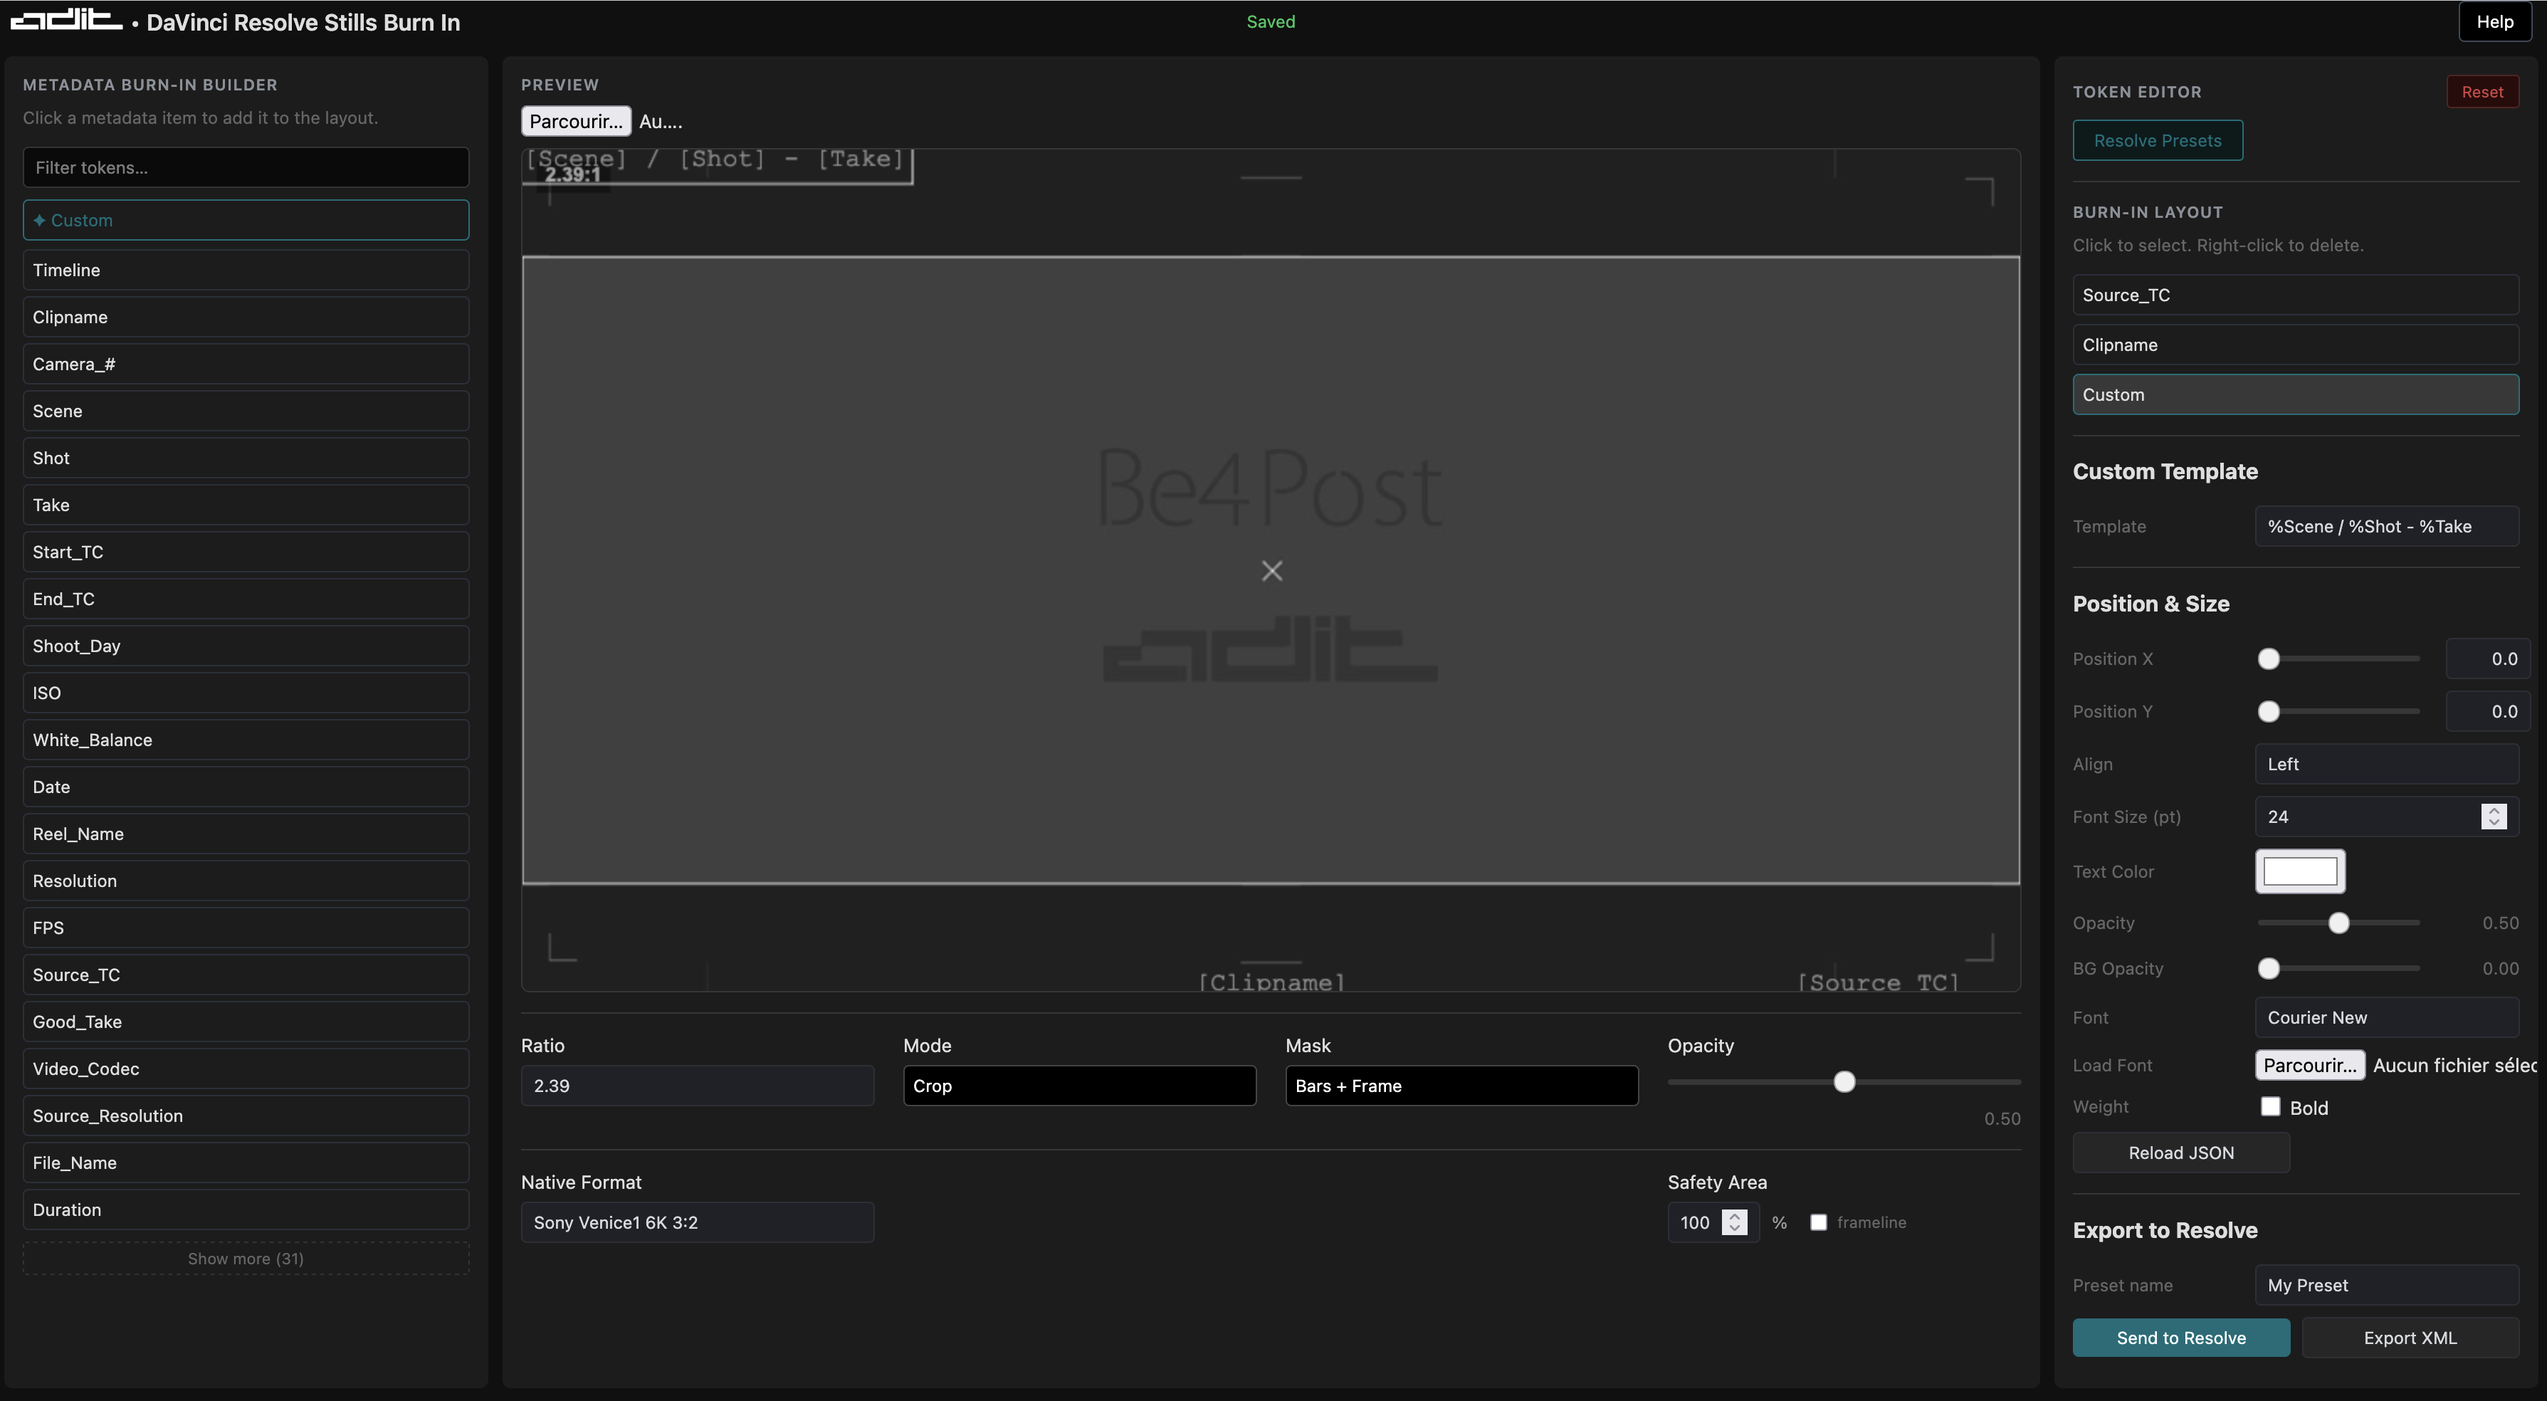
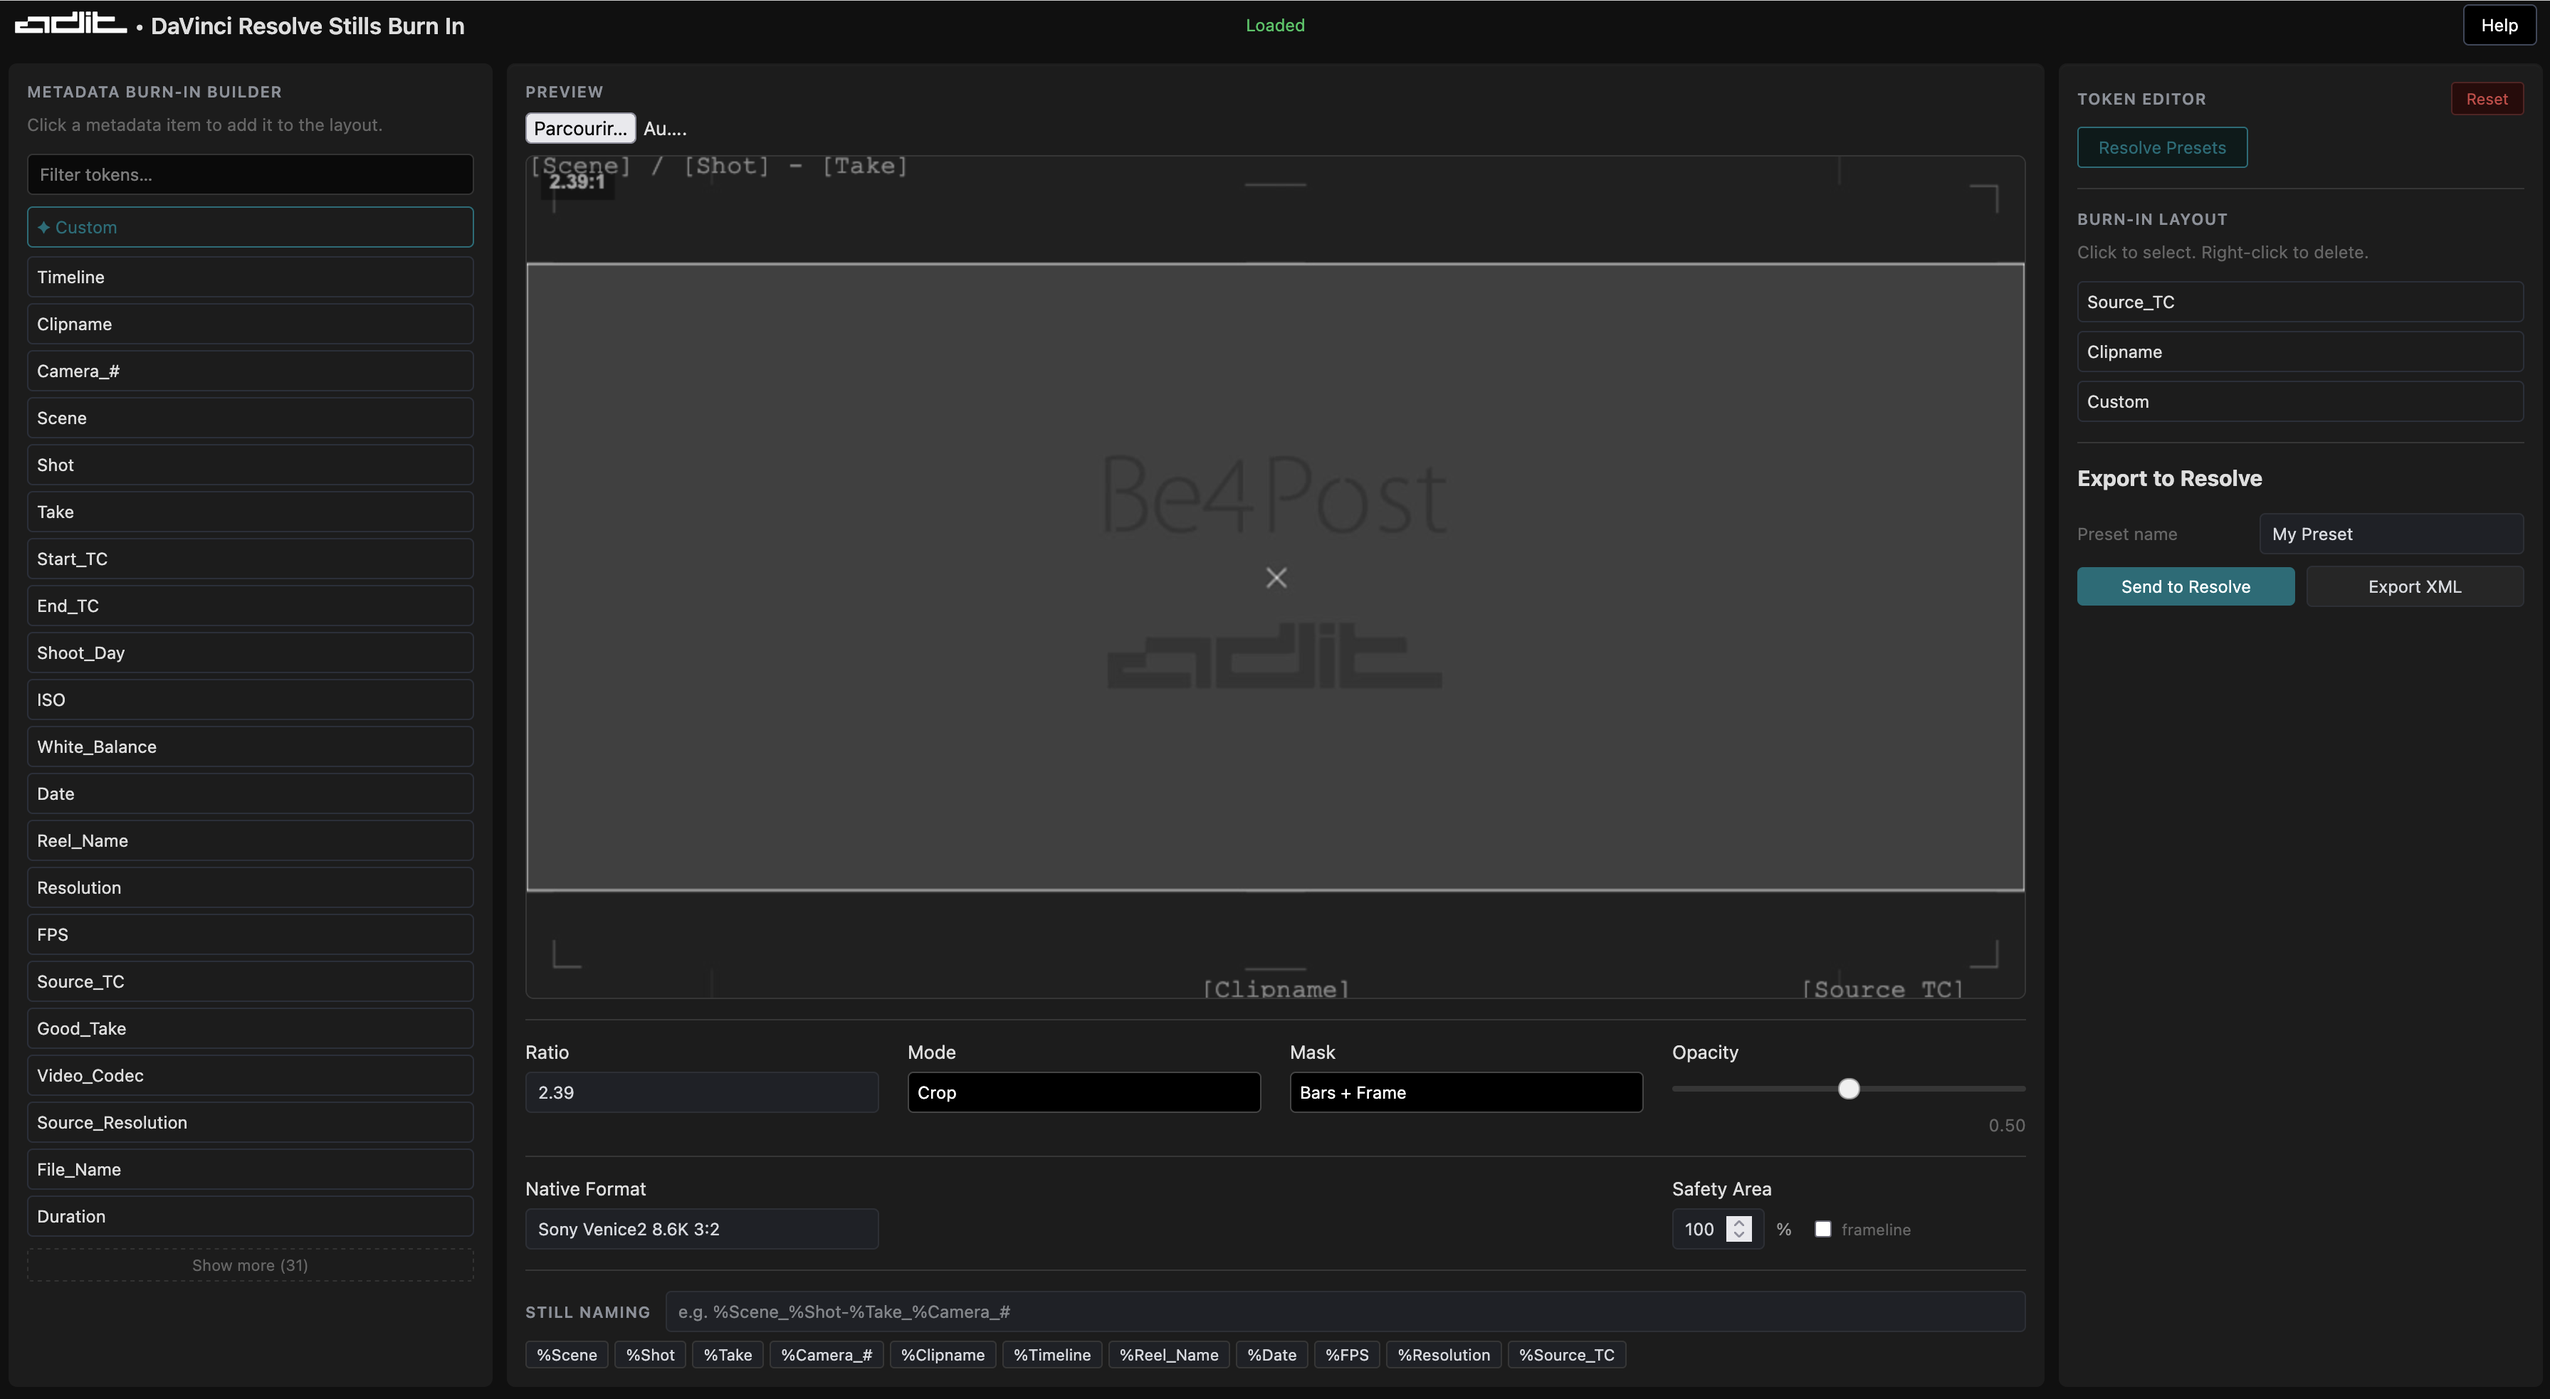
feature / fully customizable naming in the web UI. Control the gallery stills naming as well.

diff --git a/Stills_Marker_python_settings/burnin_ui/app.js b/Stills_Marker_python_settings/burnin_ui/app.js
@@ -70,7 +70,8 @@ let state = {
   open_gate_crop_custom_w: 3,
   open_gate_crop_custom_h: 2,
   open_gate_safety: 100,
-  ogc_show_frameline: true,
+  ogc_show_frameline: false,
+  still_naming_template: "",
 };
 
 // --- Undo / Redo Stacks ---
@@ -913,6 +914,45 @@ function bindInputs(){
     });
   }
 
+  // --- Still Naming ---
+  const stillNamingInput = document.getElementById("stillNamingTemplate");
+  if(stillNamingInput){
+    stillNamingInput.addEventListener("input", (e)=>{
+      state.still_naming_template = e.target.value;
+      scheduleSave();
+    });
+
+    // Build token chips
+    const NAMING_TOKENS = [
+      "%Scene","%Shot","%Take","%Camera_#",
+      "%Clipname","%Timeline","%Reel_Name",
+      "%Date","%FPS","%Resolution","%Source_TC",
+      "%Frame","%Clip_#",
+    ];
+    const chipsWrap = document.getElementById("stillNamingTokens");
+    if(chipsWrap){
+      NAMING_TOKENS.forEach(tok => {
+        const chip = document.createElement("span");
+        chip.textContent = tok;
+        chip.title = "Insert token";
+        chip.style.cssText = "padding:2px 7px;border-radius:3px;border:1px solid #363636;background:#1f2126;color:#d6d9df;font-size:11px;cursor:pointer;";
+        chip.addEventListener("mouseenter", ()=>{ chip.style.borderColor="#006D78"; chip.style.color="#fff"; });
+        chip.addEventListener("mouseleave", ()=>{ chip.style.borderColor="#363636"; chip.style.color="#d6d9df"; });
+        chip.addEventListener("click", ()=>{
+          const start = stillNamingInput.selectionStart;
+          const end   = stillNamingInput.selectionEnd;
+          const val   = stillNamingInput.value;
+          stillNamingInput.value = val.slice(0, start) + tok + val.slice(end);
+          stillNamingInput.setSelectionRange(start + tok.length, start + tok.length);
+          stillNamingInput.focus();
+          state.still_naming_template = stillNamingInput.value;
+          scheduleSave();
+        });
+        chipsWrap.appendChild(chip);
+      });
+    }
+  }
+
   // Editing selected element position
   els.metaPosX.addEventListener("input", ()=>{
     if(state.selectedIndex == null) return;
@@ -1701,7 +1741,7 @@ function render(){
   ctx.globalAlpha = 1.0;
 
   // --- OGC frameline ---
-  if(state.ogc_show_frameline !== false) {
+  if(state.ogc_show_frameline === true) {
     const nativeRatio   = getOGCNativeRatio();
     const deliveryRatio = 16 / 9;
     const safetyF       = Math.max(0.5, Math.min(1.0, (state.open_gate_safety ?? 100) / 100));
@@ -1876,6 +1916,15 @@ async function loadFromServer(){
     if(ogcSafeEl) ogcSafeEl.value = state.open_gate_safety ?? 100;
     updateOpenGateCropUI();
 
+    // Still Naming
+    if(typeof data.still_naming === "string") state.still_naming_template = data.still_naming;
+    const stillNamingEl = document.getElementById("stillNamingTemplate");
+    if(stillNamingEl) stillNamingEl.value = state.still_naming_template || "";
+
+    // Sync frameline toggle from DOM (browser may restore unchecked state across reloads)
+    const _framelineEl = document.getElementById("ogcFramelineToggle");
+    if(_framelineEl) state.ogc_show_frameline = _framelineEl.checked;
+
     updateCanvasRatio();
 
     // Try to fetch metadata JSON for preview
@@ -1993,6 +2042,8 @@ async function saveToServer(){
         custom_h: Number(state.open_gate_crop_custom_h) || 2,
         safety: Number(state.open_gate_safety) ?? 100,
       },
+
+      still_naming: state.still_naming_template || "",
     };
 
     const res = await fetch(`${API_BASE}/save`,{

diff --git a/Stills_Marker_python_settings/burnin_ui/index.html b/Stills_Marker_python_settings/burnin_ui/index.html
@@ -106,11 +106,21 @@
               <input type="number" id="openGateSafety" min="50" max="100" value="100" step="0.5" style="width:65px" />
               <span style="font-size:12px;color:#999">%</span>
               <label style="display:flex;align-items:center;gap:4px;color:#666;font-size:11px;cursor:pointer;margin-left:4px;">
-                <input type="checkbox" id="ogcFramelineToggle" checked style="width:12px;height:12px;" />
+                <input type="checkbox" id="ogcFramelineToggle" style="width:12px;height:12px;" />
                 frameline
               </label>
             </div>
           </div>
+        </div>
+
+        <div class="sep"></div>
+
+        <div style="display:flex;flex-direction:column;gap:6px;">
+          <div style="display:flex;align-items:center;gap:10px;">
+            <label style="font-size:11px;color:#8b9099;font-weight:600;letter-spacing:0.06em;text-transform:uppercase;white-space:nowrap;">Still Naming</label>
+            <input type="text" id="stillNamingTemplate" placeholder="e.g. %Scene_%Shot-%Take_%Camera_#" style="flex:1;min-width:0;" />
+          </div>
+          <div id="stillNamingTokens" style="display:flex;flex-wrap:wrap;gap:4px;"></div>
         </div>
 
       </section>

diff --git a/Stills_Markers_python.py b/Stills_Markers_python.py
@@ -464,6 +464,62 @@ _OPEN_GATE_PRESETS = {
 }
 
 
+def apply_naming_template(template, meta_block):
+    """
+    Resolve a naming template string using metadata tokens and return a
+    sanitized filename stem (no extension, no path).
+
+    Supported tokens (case-sensitive, % prefix):
+      %Scene  %Shot  %Take  %Camera_#  %Clipname  %Timeline
+      %Reel_Name  %Date  %FPS  %Resolution  %Source_TC
+    """
+    if not template:
+        return ""
+
+    full_meta  = meta_block.get("metadata", {}) or {}
+    full_props = meta_block.get("clip_properties", {}) or {}
+
+    def _m(*keys):
+        for k in keys:
+            v = full_meta.get(k) or full_props.get(k) or ""
+            if v:
+                return str(v).strip()
+        return ""
+
+    token_map = {
+        "%Camera_#":    _m("Camera #", "Camera"),
+        "%Reel_Name":   _m("Reel Name"),
+        "%Source_TC":   meta_block.get("source_tc") or _m("Start TC") or "",
+        "%Resolution":  _m("Resolution"),
+        "%Timeline":    meta_block.get("timeline_name", ""),
+        "%Clipname":    meta_block.get("clip_name", ""),
+        "%Scene":       _m("Scene"),
+        "%Shot":        _m("Shot"),
+        "%Take":        _m("Take"),
+        "%Date":        _m("Date Recorded", "Date"),
+        "%FPS":         _m("FPS"),
+        "%Frame":       str(meta_block.get("timeline_frame", "")),
+        "%Clip_#":      _m("Clip #"),
+    }
+
+    result = template
+    # Replace longest tokens first to avoid partial substitution
+    for token in sorted(token_map, key=len, reverse=True):
+        result = result.replace(token, token_map[token])
+
+    # Sanitize: remove characters illegal in filenames
+    illegal = r'\/:*?"<>|'
+    for ch in illegal:
+        result = result.replace(ch, "_")
+
+    # Collapse multiple underscores, strip leading/trailing separators
+    while "__" in result:
+        result = result.replace("__", "_")
+    result = result.strip("_- ")
+
+    return result
+
+
 def apply_open_gate_crop(img_path, native_w, native_h, safety=100.0):
     """
     Extract the 16:9 delivery area from an open-gate still and upscale to 1920x1080.
@@ -2273,9 +2329,10 @@ if grab_stills:
     processed_count = 0
     all_exported_files = []
 
-    # Pre-load burnin settings once for Open Gate Crop (applied per image)
-    _burnin_cfg = load_burnin_web_settings() if settings.get("export", False) else {}
+    # Pre-load burnin settings once (OGC + still naming — always loaded)
+    _burnin_cfg = load_burnin_web_settings()
     _ogc = _burnin_cfg.get("open_gate_crop", {})
+    _still_naming = str(_burnin_cfg.get("still_naming", "")).strip()
     _ogc_enabled = bool(settings.get("open_gate_crop", False))
     if _ogc_enabled:
         _ogc_preset = _ogc.get("preset", "arri_alexa35")
@@ -2335,36 +2392,33 @@ if grab_stills:
         if settings.get("rename_with_meta", False):
             meta_block = metadata_by_frame.get(str(marker_offset_frame), {})
 
-            full_meta = meta_block.get("metadata", {})
-            full_props = meta_block.get("clip_properties", {})
+            if _still_naming:
+                # Use the web UI template (same as disk rename)
+                new_label = apply_naming_template(_still_naming, meta_block)
+            else:
+                # Fallback: hardcoded Scene_Shot_Take_Camera_Clipname
+                full_meta  = meta_block.get("metadata", {})
+                full_props = meta_block.get("clip_properties", {})
 
-            scene = full_meta.get("Scene") or full_meta.get("Scene Number") or full_props.get("Scene") or ""
-            shot = full_meta.get("Shot") or full_meta.get("Shot Number") or full_props.get("Shot") or ""
-            take = full_meta.get("Take") or full_meta.get("Take Number") or full_props.get("Take") or ""
-            camera = full_meta.get("Camera #") or full_meta.get("Camera") or full_meta.get(
-                "Camera Number") or full_props.get("Camera") or ""
-            clipname = meta_block.get("clip_name", "")
+                scene    = str(full_meta.get("Scene") or full_meta.get("Scene Number") or full_props.get("Scene") or "").strip()
+                shot     = str(full_meta.get("Shot") or full_meta.get("Shot Number") or full_props.get("Shot") or "").strip()
+                take     = str(full_meta.get("Take") or full_meta.get("Take Number") or full_props.get("Take") or "").strip()
+                camera   = str(full_meta.get("Camera #") or full_meta.get("Camera") or full_meta.get("Camera Number") or full_props.get("Camera") or "").strip()
+                clipname = str(meta_block.get("clip_name", "")).strip()
 
-            scene = str(scene).strip()
-            shot = str(shot).strip()
-            take = str(take).strip()
-            camera = str(camera).strip()
-            clipname = str(clipname).strip()
-
-            parts = []
-            if scene:
-                base = scene
-                if shot:
-                    base += f"_{shot}"
-                if take:
-                    base += f"_{take}"
-                parts.append(base)
-            if camera:
-                parts.append(camera)
-            if clipname:
-                parts.append(clipname)
-
-            new_label = "_".join(parts).strip("_")
+                parts = []
+                if scene:
+                    base = scene
+                    if shot:
+                        base += f"_{shot}"
+                    if take:
+                        base += f"_{take}"
+                    parts.append(base)
+                if camera:
+                    parts.append(camera)
+                if clipname:
+                    parts.append(clipname)
+                new_label = "_".join(parts).strip("_")
 
             if new_label:
                 still_album.SetLabel(grabbed, new_label)
@@ -2418,6 +2472,29 @@ if grab_stills:
                     # Skipped when fit HD is active (fixed 1920x1080 output)
                     if _resize_on and not settings.get("fit_to_1920_canvas", False):
                         resize_image(img_path, _resize_pct, delete_original=True)
+
+                    # Still naming template rename (applied last, after all processing)
+                    if _still_naming:
+                        new_stem = apply_naming_template(_still_naming, meta_block)
+                        if new_stem:
+                            ext = os.path.splitext(img_path)[1]
+                            new_path = os.path.join(os.path.dirname(img_path), new_stem + ext)
+                            # Avoid collision: append counter if name already exists
+                            if new_path != img_path and os.path.exists(new_path):
+                                base_stem = new_stem
+                                counter = 1
+                                while os.path.exists(new_path):
+                                    new_path = os.path.join(
+                                        os.path.dirname(img_path),
+                                        f"{base_stem}_{counter}{ext}"
+                                    )
+                                    counter += 1
+                            try:
+                                os.rename(img_path, new_path)
+                                img_path = new_path
+                                print(f"Still renamed → {os.path.basename(img_path)}")
+                            except Exception as e:
+                                print(f"Could not rename still: {e}")
 
                     # Register filename in JSON
                     meta_block["exported_filename"] = os.path.basename(img_path)

diff --git a/Stills_Marker_python_settings/server_save_burnin_json.py b/Stills_Marker_python_settings/server_save_burnin_json.py
@@ -861,6 +861,10 @@ def sanitize_payload(data: dict) -> dict:
         "safety":   max(50.0, min(100.0, _safe_float(ogc_in.get("safety", 100.0), 100.0))),
     }
 
+    # ---- still naming ----
+    raw_naming = data.get("still_naming", "")
+    out["still_naming"] = str(raw_naming).strip() if isinstance(raw_naming, str) else ""
+
     # ---- elements ----
     elements_in  = data.get("elements", [])
     elements_out = []
